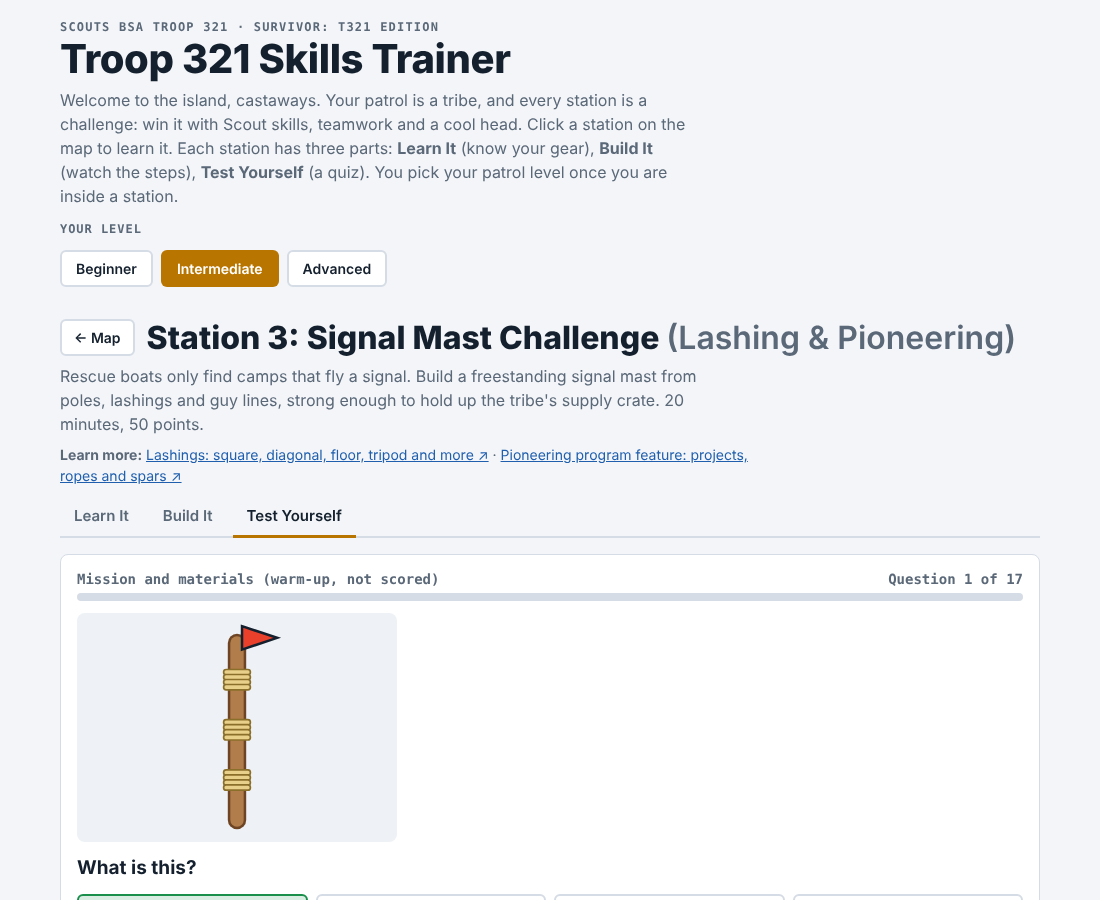
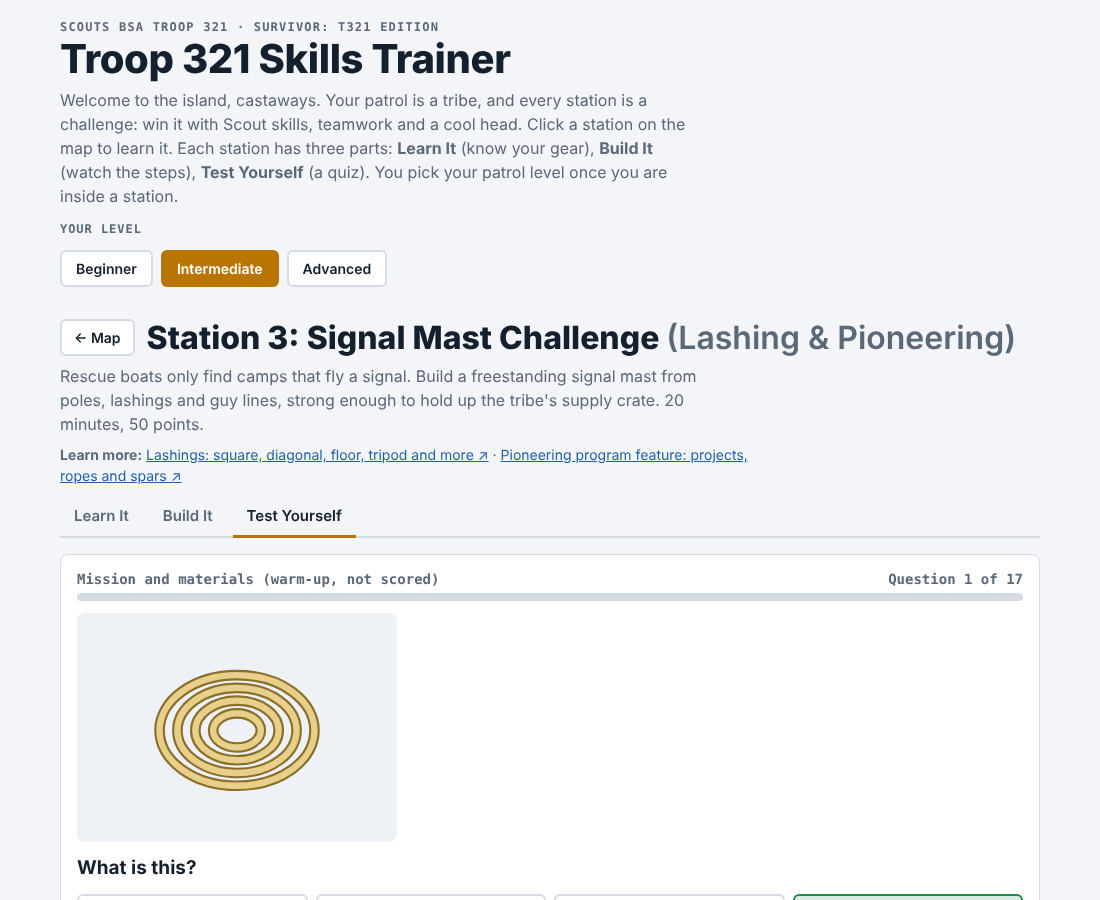
Redraw the map as a top-down island with a hiking trail
- Remove the sky, clouds, floating road and question-mark blocks
- Top-down island: ocean with waves, beach edge, jungle, volcano,
  pond, rocks, palm trees, raft landing and a compass rose
- Stations sit on the island, joined by a dirt footpath on the ground
  from the raft landing to the Tribal Council torches; the scout still
  walks the trail between stations
- Remove unused cloud and block animations

Claude-Session: https://claude.ai/code/session_01KXBQg6WSUbtGTmjtFy61pH

Changed region(s): [[0.1236, 0.6844, 0.3091, 0.9333], [0.7109, 0.9956, 0.9273, 1.0], [0.0618, 0.9956, 0.2782, 1.0]]

diff --git a/index.html b/index.html
@@ -25,17 +25,13 @@ button:focus-visible,a:focus-visible,[tabindex]:focus-visible{outline:3px solid 
 .lvlab{font:600 12px var(--mono);color:var(--mute);margin-top:14px;text-transform:uppercase;letter-spacing:.08em}
 /* map */
 #map{margin-top:6px}
-.world{border-radius:14px;overflow:hidden;border:2px solid var(--line);background:#6ec6ff}
+.world{border-radius:14px;overflow:hidden;border:2px solid var(--line);background:#1f74b5}
 .world{overflow-x:auto}.world svg{display:block;width:100%;min-width:680px;height:auto}
 .node{cursor:pointer}
 .node:focus-visible{outline:none}.node:focus-visible .ring{stroke:#ffd23f;stroke-width:6}
 .node .disc{transition:transform .2s;transform-box:fill-box;transform-origin:center}
 .node:hover .disc,.node:focus-visible .disc{transform:scale(1.1)}
 .locked{opacity:.8}
-.cloud{animation:drift 60s linear infinite}
-@keyframes drift{from{transform:translateX(-120px)}to{transform:translateX(1100px)}}
-.bobq{animation:bobq 2s ease-in-out infinite;transform-box:fill-box;transform-origin:center}
-@keyframes bobq{50%{transform:translateY(-5px)}}
 #scout .lg1{animation:leg .35s ease-in-out infinite alternate;transform-box:fill-box;transform-origin:top center;animation-play-state:paused}
 #scout .lg2{animation:leg .35s ease-in-out infinite alternate-reverse;transform-box:fill-box;transform-origin:top center;animation-play-state:paused}
 #scout.walking .lg1,#scout.walking .lg2{animation-play-state:running}
@@ -170,7 +166,7 @@ function drawGlv(){
    Map positions are spread automatically; ids listed here but not in LIVE show as locked "coming soon". */
 const ORDER=['s1','s2','s3','s4','s6'];
 const LIVE=['s1','s2','s3','s4','s6'];
-const NODES=ORDER.map((id,i)=>({id,x:ORDER.length<2?480:Math.round(110+i*740/(ORDER.length-1)),y:i%2?195:325}));
+const NODES=ORDER.map((id,i)=>({id,x:ORDER.length<2?480:Math.round(110+i*740/(ORDER.length-1)),y:i%2?175:300}));
 const NINFO={
  s1:{name:'Hot Cocoa Reward Challenge',skill:'Fire Building',res:[{t:'Fire Building (Troop Leader Resources)',u:'https://troopleader.scouting.org/rank-advancement-skills/campcraft/fire-building/'},{t:'NPR: How to build a campfire',u:'https://www.npr.org/2012/06/04/154162859/summer-science-how-to-build-a-campfire'}],ic:`<path d="M0-20C10-8 14-2 10 8 7 15-7 15-10 8-13 1-6-4 0-20Z" fill="#ff7a1a"/><path d="M0-6C5 0 6 4 3 9-2 11-6 8-4 3Z" fill="#ffd23f"/>`},
  s2:{name:'Hidden Treasure Hunt',skill:'Orienteering',res:[{t:'Orienteering program feature (Troop Leader Resources)',u:'https://troopleader.scouting.org/program-features/orienteering/'},{t:'Navigation and Measurements: compass and map skills',u:'https://troopleader.scouting.org/rank-advancement-skills/campcraft/navigation-and-measurements/'}],ic:`<circle r="16" fill="#fff" stroke="#14202e" stroke-width="3"/><path d="M0-12 5 0 0 12-5 0Z" fill="#d33"/><path d="M0 12 5 0 0 0Z" fill="#14202e"/>`},
@@ -183,7 +179,7 @@ let pathLens=[],mapBuilt=false,scoutAt=0;
 function catmull(pts){let d=`M${pts[0][0]},${pts[0][1]}`;for(let i=0;i<pts.length-1;i++){const p0=pts[i-1]||pts[i],p1=pts[i],p2=pts[i+1],p3=pts[i+2]||p2;d+=` C${p1[0]+(p2[0]-p0[0])/6},${p1[1]+(p2[1]-p0[1])/6} ${p2[0]-(p3[0]-p1[0])/6},${p2[1]-(p3[1]-p1[1])/6} ${p2[0]},${p2[1]}`}return d}
 function drawMap(){
   $('#st').hidden=true;$('#map').hidden=false;$('#lvbox').hidden=true;
-  const pts=[[20,372],...NODES.map(n=>[n.x,n.y]),[940,150]];
+  const pts=[[48,388],...NODES.map(n=>[n.x,n.y]),[884,120]];
   const pd=catmull(pts);
   const sc=`<g id="scout" transform="translate(${NODES[scoutAt].x},${NODES[scoutAt].y-4})"><g id="scoutin"><ellipse cx="0" cy="2" rx="14" ry="4" fill="#0003"/>
    <g class="lg1"><rect x="-7" y="-14" width="6" height="14" rx="3" fill="#5b6b3a"/></g><g class="lg2"><rect x="1" y="-14" width="6" height="14" rx="3" fill="#6f7f48"/></g>
@@ -197,18 +193,25 @@ function drawMap(){
      ${live?'':`<g transform="translate(24,-26)"><rect x="-10" y="-8" width="20" height="16" rx="3" fill="#6b7c8f"/><path d="M-5-8v-4a5 5 0 0 1 10 0v4" stroke="#6b7c8f" stroke-width="3" fill="none"/></g>`}
      <g class="skl"><rect x="${-I.skill.length*4.1-10}" y="42" width="${I.skill.length*8.2+20}" height="22" rx="11" fill="#14202e" opacity=".85"/>${tx(0,58,I.skill,{s:13,f:'#fff'})}</g>${stz?tx(0,84,stz,{s:16,f:'#ffd23f'}):''}</g>`}).join('');
   $('#map').innerHTML=`<div class="world">${sv(`
-   <defs><linearGradient id="sky" x1="0" y1="0" x2="0" y2="1"><stop offset="0" stop-color="#4aa8ff"/><stop offset="1" stop-color="#bfe6ff"/></linearGradient></defs>
-   <rect width="960" height="440" fill="url(#sky)"/>
-   <circle cx="840" cy="70" r="34" fill="#ffe27a"/>
-   <g class="cloud" style="animation-duration:70s"><ellipse cx="80" cy="70" rx="46" ry="16" fill="#fff"/><ellipse cx="110" cy="58" rx="30" ry="16" fill="#fff"/></g>
-   <g class="cloud" style="animation-duration:95s;animation-delay:-40s"><ellipse cx="80" cy="130" rx="40" ry="13" fill="#fff"/><ellipse cx="104" cy="120" rx="26" ry="13" fill="#fff"/></g>
-   <rect y="318" width="960" height="122" fill="#2f9fd8"/><path d="M0 318H960" stroke="#bfe6ff" stroke-width="3" opacity=".7"/>
-   <path d="M0 400 Q120 300 260 380 T520 370 T780 360 T960 380V440H0Z" fill="#e3c98d"/><path d="M0 420 Q200 360 400 410 T800 400 T960 410V440H0Z" fill="#58b85a"/><g transform="translate(205,404) scale(1.0)"><path d="M0 0C2-20 6-40 14-62" stroke="#8a5a2b" stroke-width="7" fill="none" stroke-linecap="round"/><g fill="#2f8f3a"><path d="M14-62C2-74-14-72-26-60-12-66 0-64 14-62Z"/><path d="M14-62C26-76 42-74 52-60 38-66 26-66 14-62Z"/><path d="M14-62C4-60-6-50-10-36-2-48 6-56 14-62Z"/><path d="M14-62C26-58 34-48 36-34 30-46 22-56 14-62Z"/></g><circle cx="11" cy="-58" r="4" fill="#6e4524"/><circle cx="17" cy="-57" r="4" fill="#6e4524"/></g><g transform="translate(575,404) scale(0.9)"><path d="M0 0C2-20 6-40 14-62" stroke="#8a5a2b" stroke-width="7" fill="none" stroke-linecap="round"/><g fill="#2f8f3a"><path d="M14-62C2-74-14-72-26-60-12-66 0-64 14-62Z"/><path d="M14-62C26-76 42-74 52-60 38-66 26-66 14-62Z"/><path d="M14-62C4-60-6-50-10-36-2-48 6-56 14-62Z"/><path d="M14-62C26-58 34-48 36-34 30-46 22-56 14-62Z"/></g><circle cx="11" cy="-58" r="4" fill="#6e4524"/><circle cx="17" cy="-57" r="4" fill="#6e4524"/></g><g transform="translate(760,402) scale(1.05)"><path d="M0 0C2-20 6-40 14-62" stroke="#8a5a2b" stroke-width="7" fill="none" stroke-linecap="round"/><g fill="#2f8f3a"><path d="M14-62C2-74-14-72-26-60-12-66 0-64 14-62Z"/><path d="M14-62C26-76 42-74 52-60 38-66 26-66 14-62Z"/><path d="M14-62C4-60-6-50-10-36-2-48 6-56 14-62Z"/><path d="M14-62C26-58 34-48 36-34 30-46 22-56 14-62Z"/></g><circle cx="11" cy="-58" r="4" fill="#6e4524"/><circle cx="17" cy="-57" r="4" fill="#6e4524"/></g><g transform="translate(30,412) scale(0.85)"><path d="M0 0C2-20 6-40 14-62" stroke="#8a5a2b" stroke-width="7" fill="none" stroke-linecap="round"/><g fill="#2f8f3a"><path d="M14-62C2-74-14-72-26-60-12-66 0-64 14-62Z"/><path d="M14-62C26-76 42-74 52-60 38-66 26-66 14-62Z"/><path d="M14-62C4-60-6-50-10-36-2-48 6-56 14-62Z"/><path d="M14-62C26-58 34-48 36-34 30-46 22-56 14-62Z"/></g><circle cx="11" cy="-58" r="4" fill="#6e4524"/><circle cx="17" cy="-57" r="4" fill="#6e4524"/></g>
-   <g class="bobq"><rect x="150" y="100" width="34" height="34" rx="4" fill="#e9a23b" stroke="#8a5a2b" stroke-width="3"/>${tx(167,125,'?',{s:22,f:'#fff',w:800})}</g>
-   <g class="bobq" style="animation-delay:-.7s"><rect x="470" y="70" width="34" height="34" rx="4" fill="#e9a23b" stroke="#8a5a2b" stroke-width="3"/>${tx(487,95,'?',{s:22,f:'#fff',w:800})}</g>
-   <g class="bobq" style="animation-delay:-1.2s"><rect x="700" y="105" width="34" height="34" rx="4" fill="#e9a23b" stroke="#8a5a2b" stroke-width="3"/>${tx(717,130,'?',{s:22,f:'#fff',w:800})}</g>
-   <path id="road" d="${pd}" fill="none" stroke="#7a5230" stroke-width="22" stroke-linecap="round"/><path d="${pd}" fill="none" stroke="#e6c48a" stroke-width="16" stroke-linecap="round"/><path d="${pd}" fill="none" stroke="#fff" stroke-width="3" stroke-dasharray="3 14" stroke-linecap="round"/>
-   <g transform="translate(0,118)"><g transform="translate(888,0)"><rect x="-3" y="-30" width="6" height="70" fill="#6e4524"/><path d="M-9-34h18l-4 8h-10Z" fill="#c9a24a" stroke="#7a5a12" stroke-width="1.5"/><g class="fl"><path d="M0-62C9-50 12-44 8-38 4-33-4-33-8-38-11-44-6-50 0-62Z" fill="#ff7a1a"/><path d="M0-48C4-44 5-40 2-37-2-36-4-39-2-43Z" fill="#ffd23f"/></g></g><g transform="translate(922,0)"><rect x="-3" y="-30" width="6" height="70" fill="#6e4524"/><path d="M-9-34h18l-4 8h-10Z" fill="#c9a24a" stroke="#7a5a12" stroke-width="1.5"/><g class="fl"><path d="M0-62C9-50 12-44 8-38 4-33-4-33-8-38-11-44-6-50 0-62Z" fill="#ff7a1a"/><path d="M0-48C4-44 5-40 2-37-2-36-4-39-2-43Z" fill="#ffd23f"/></g></g></g>
+   <defs><radialGradient id="sea" cx="50%" cy="50%" r="75%"><stop offset="0" stop-color="#4fb4e6"/><stop offset="1" stop-color="#1f74b5"/></radialGradient></defs>
+   <rect width="960" height="440" fill="url(#sea)"/>
+   ${[[90,30],[250,20],[520,16],[760,22],[930,300],[640,430],[300,432],[20,250],[940,40]].map(([x,y])=>`<path d="M${x-14} ${y}q7-6 14 0t14 0" fill="none" stroke="#bfe6ff" stroke-width="2.5" stroke-linecap="round" opacity=".8"/>`).join('')}
+   <path d="M60 120C90 50 260 40 360 62C460 30 600 44 700 40C820 34 930 70 938 150C948 230 920 300 900 350C870 410 740 424 600 410C480 432 340 420 220 414C110 420 26 392 22 330C18 260 36 170 60 120Z" fill="#9fd3ee" opacity=".55" transform="translate(-6,4) scale(1.012)"/>
+   <path d="M60 120C90 50 260 40 360 62C460 30 600 44 700 40C820 34 930 70 938 150C948 230 920 300 900 350C870 410 740 424 600 410C480 432 340 420 220 414C110 420 26 392 22 330C18 260 36 170 60 120Z" fill="#ecd59f"/>
+   <path d="M88 136C114 78 262 70 360 90C462 60 600 72 700 68C810 62 900 94 908 160C916 232 892 292 874 334C848 384 736 394 600 382C482 402 342 392 226 386C126 390 66 366 62 312C58 248 68 182 88 136Z" fill="#78b85a"/>
+   <path d="M160 170C190 120 300 110 380 124C470 100 610 110 690 106C780 102 840 130 846 176C852 230 830 270 800 296C760 330 640 336 560 326C460 342 330 334 250 330C190 330 150 306 146 260C142 222 146 196 160 170Z" fill="#8cc66a" opacity=".55"/>
+   <g transform="translate(480,96)"><path d="M-70 40-18-34H18L70 40Z" fill="#9b7b55" stroke="#6e5434" stroke-width="3" stroke-linejoin="round"/><path d="M-18-34 0-22 18-34" fill="#5c4630"/><path d="M-30 4-12-12M10-14 30 6M-4 0v24" stroke="#6e5434" stroke-width="2" fill="none"/><ellipse cx="0" cy="-36" rx="18" ry="5" fill="#6e5434"/><g opacity=".65"><circle cx="6" cy="-50" r="7" fill="#e9eef4"/><circle cx="16" cy="-62" r="9" fill="#e9eef4"/></g></g>
+   ${[[190,108,1],[230,96,.8],[700,96,1],[742,110,.85],[390,384,.9],[610,372,.9],[760,356,1],[120,240,.9]].map(([x,y,k])=>`<g transform="translate(${x},${y}) scale(${k})">${[[-14,4,13],[0,-6,15],[14,4,12],[0,8,11]].map(([dx,dy,rr])=>`<circle cx="${dx}" cy="${dy}" r="${rr}" fill="#3f8a3a" stroke="#2c6a2a" stroke-width="2"/>`).join('')}</g>`).join('')}
+   ${[[560,232,9,6],[574,240,6,4],[402,248,7,5],[720,250,8,5],[210,352,7,4]].map(([x,y,rx,ry])=>`<ellipse cx="${x}" cy="${y}" rx="${rx}" ry="${ry}" fill="#9aa5b1" stroke="#6b7785" stroke-width="2"/>`).join('')}
+   <path d="M330 250c18-10 40-8 50 4s-6 26-28 26-34-14-22-30Z" fill="#5fb6e4" stroke="#3f86c9" stroke-width="2.5"/>
+   ${[[268,412,.8,-4],[912,250,.9,8],[600,404,.75,6],[930,190,.75,10],[262,72,.7,-6],[70,170,.75,-8]].map(([x,y,k,rot])=>`<g transform="translate(${x},${y}) scale(${k}) rotate(${rot})"><path d="M0 0C2-20 6-40 14-62" stroke="#8a5a2b" stroke-width="7" fill="none" stroke-linecap="round"/><g fill="#2f8f3a"><path d="M14-62C2-74-14-72-26-60-12-66 0-64 14-62Z"/><path d="M14-62C26-76 42-74 52-60 38-66 26-66 14-62Z"/><path d="M14-62C4-60-6-50-10-36-2-48 6-56 14-62Z"/><path d="M14-62C26-58 34-48 36-34 30-46 22-56 14-62Z"/></g><circle cx="11" cy="-58" r="4" fill="#6e4524"/><circle cx="17" cy="-57" r="4" fill="#6e4524"/></g>`).join('')}
+   <g transform="translate(36,418) rotate(-12)"><rect x="-26" y="-8" width="52" height="16" rx="3" fill="#a8672f" stroke="#6e4524" stroke-width="2"/><path d="M-14-8v16M0-8v16M14-8v16" stroke="#6e4524" stroke-width="2"/></g>
+   <g transform="translate(50,46)" opacity=".9"><circle r="22" fill="#fff" fill-opacity=".85" stroke="#14202e" stroke-width="2"/><path d="M0-18 5 0 0 18-5 0Z" fill="#14202e"/><path d="M0-18 5 0H-5Z" fill="#c0304a"/><path d="M-18 0 0-4 18 0 0 4Z" fill="#14202e" opacity=".55"/><text y="-25" font-size="11" font-weight="800" text-anchor="middle" fill="#fff" font-family="Archivo,Arial">N</text></g>
+   <path d="${pd}" fill="none" stroke="#5b8a3e" stroke-width="22" stroke-linecap="round" stroke-linejoin="round" opacity=".45"/>
+   <path id="road" d="${pd}" fill="none" stroke="#a07a4a" stroke-width="13" stroke-linecap="round" stroke-linejoin="round"/>
+   <path d="${pd}" fill="none" stroke="#c19a63" stroke-width="7" stroke-linecap="round" stroke-linejoin="round"/>
+   <path d="${pd}" fill="none" stroke="#6e4f2c" stroke-width="3" stroke-dasharray="2 11" stroke-linecap="round"/>
+   <g transform="translate(884,120)"><ellipse cx="0" cy="10" rx="34" ry="12" fill="#c9a66b" stroke="#8a6a43" stroke-width="2"/>${[[-26,0],[26,0]].map(([dx])=>`<g transform="translate(${dx},0)"><rect x="-3" y="-34" width="6" height="44" fill="#6e4524"/><path d="M-9-38h18l-4 8h-10Z" fill="#c9a24a" stroke="#7a5a12" stroke-width="1.5"/><g class="fl"><path d="M0-66C9-54 12-48 8-42 4-37-4-37-8-42-11-48-6-54 0-66Z" fill="#ff7a1a"/><path d="M0-52C4-48 5-44 2-41-2-40-4-43-2-47Z" fill="#ffd23f"/></g></g>`).join('')}<g transform="translate(0,6)"><path d="M-8 6 8-2M-8-2 8 6" stroke="#6e4524" stroke-width="4" stroke-linecap="round"/><g transform="translate(0,-2) scale(.45)"><g class="fl"><path d="M0-30C16-10 22 0 16 14 10 26-10 26-16 14-22 0-10-8 0-30Z" fill="#ff7a1a"/><path d="M0-8C9 2 10 10 5 17-4 19-10 14-6 5Z" fill="#ffd23f"/></g></g></g></g>
    ${nodes}${sc}`,'0 0 960 440')}</div>
    <div class="slist">${NODES.map((n,i)=>{const live=LIVE.includes(n.id);return `<button class="sbtn" data-i="${i}"${live?'':' disabled'}><span class="n">${i+1}</span><span>${NINFO[n.id].name} (${NINFO[n.id].skill})<small>${live?'':'Coming soon'} <span class="stars">${starsOf(n.id)}</span></small></span></button>`}).join('')}</div>`;
   const road=document.getElementById('road');const L=road.getTotalLength();
